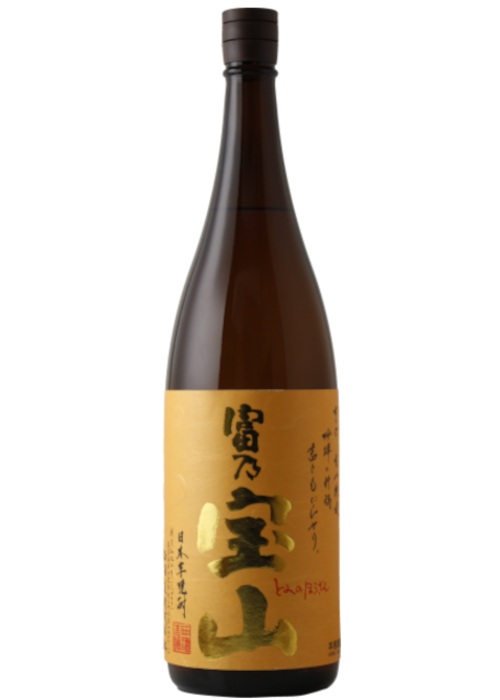
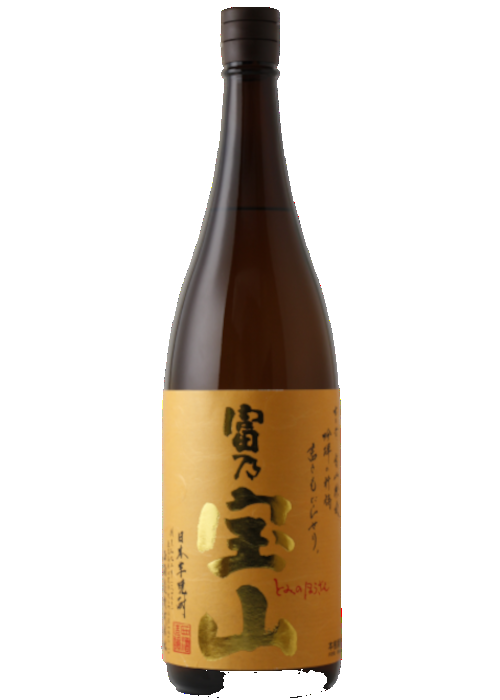
Use white backgrounds on Nakanaka and Tomi no Hozan shochu photos.
Removes black studio backdrops for consistent menu cards and bumps image cache keys.

diff --git a/lib/storeDrinkDessertMenu.ts b/lib/storeDrinkDessertMenu.ts
@@ -343,7 +343,7 @@ const DRINK_SHOCHU_MUGI: StoreMenuItem[] = [
     ...SHOCHU_BOTTLE_PHOTO,
   }),
   shochu("drink_shochu_mugi", "shochu_nakanaka", "中々", 780, {
-    image: "/store-menu/shochu-nakanaka.png?v=20261113b",
+    image: "/store-menu/shochu-nakanaka.png?v=20261113c",
     showCardName: true,
     ...SHOCHU_BOTTLE_PHOTO,
   }),
@@ -356,7 +356,7 @@ const DRINK_SHOCHU_IMO: StoreMenuItem[] = [
     ...SHOCHU_BOTTLE_PHOTO,
   }),
   shochu("drink_shochu_imo", "shochu_tominohozan", "富乃宝山", 650, {
-    image: "/store-menu/shochu-tominohozan.png?v=20261113",
+    image: "/store-menu/shochu-tominohozan.png?v=20261113c",
     showCardName: true,
     ...SHOCHU_BOTTLE_PHOTO,
   }),
